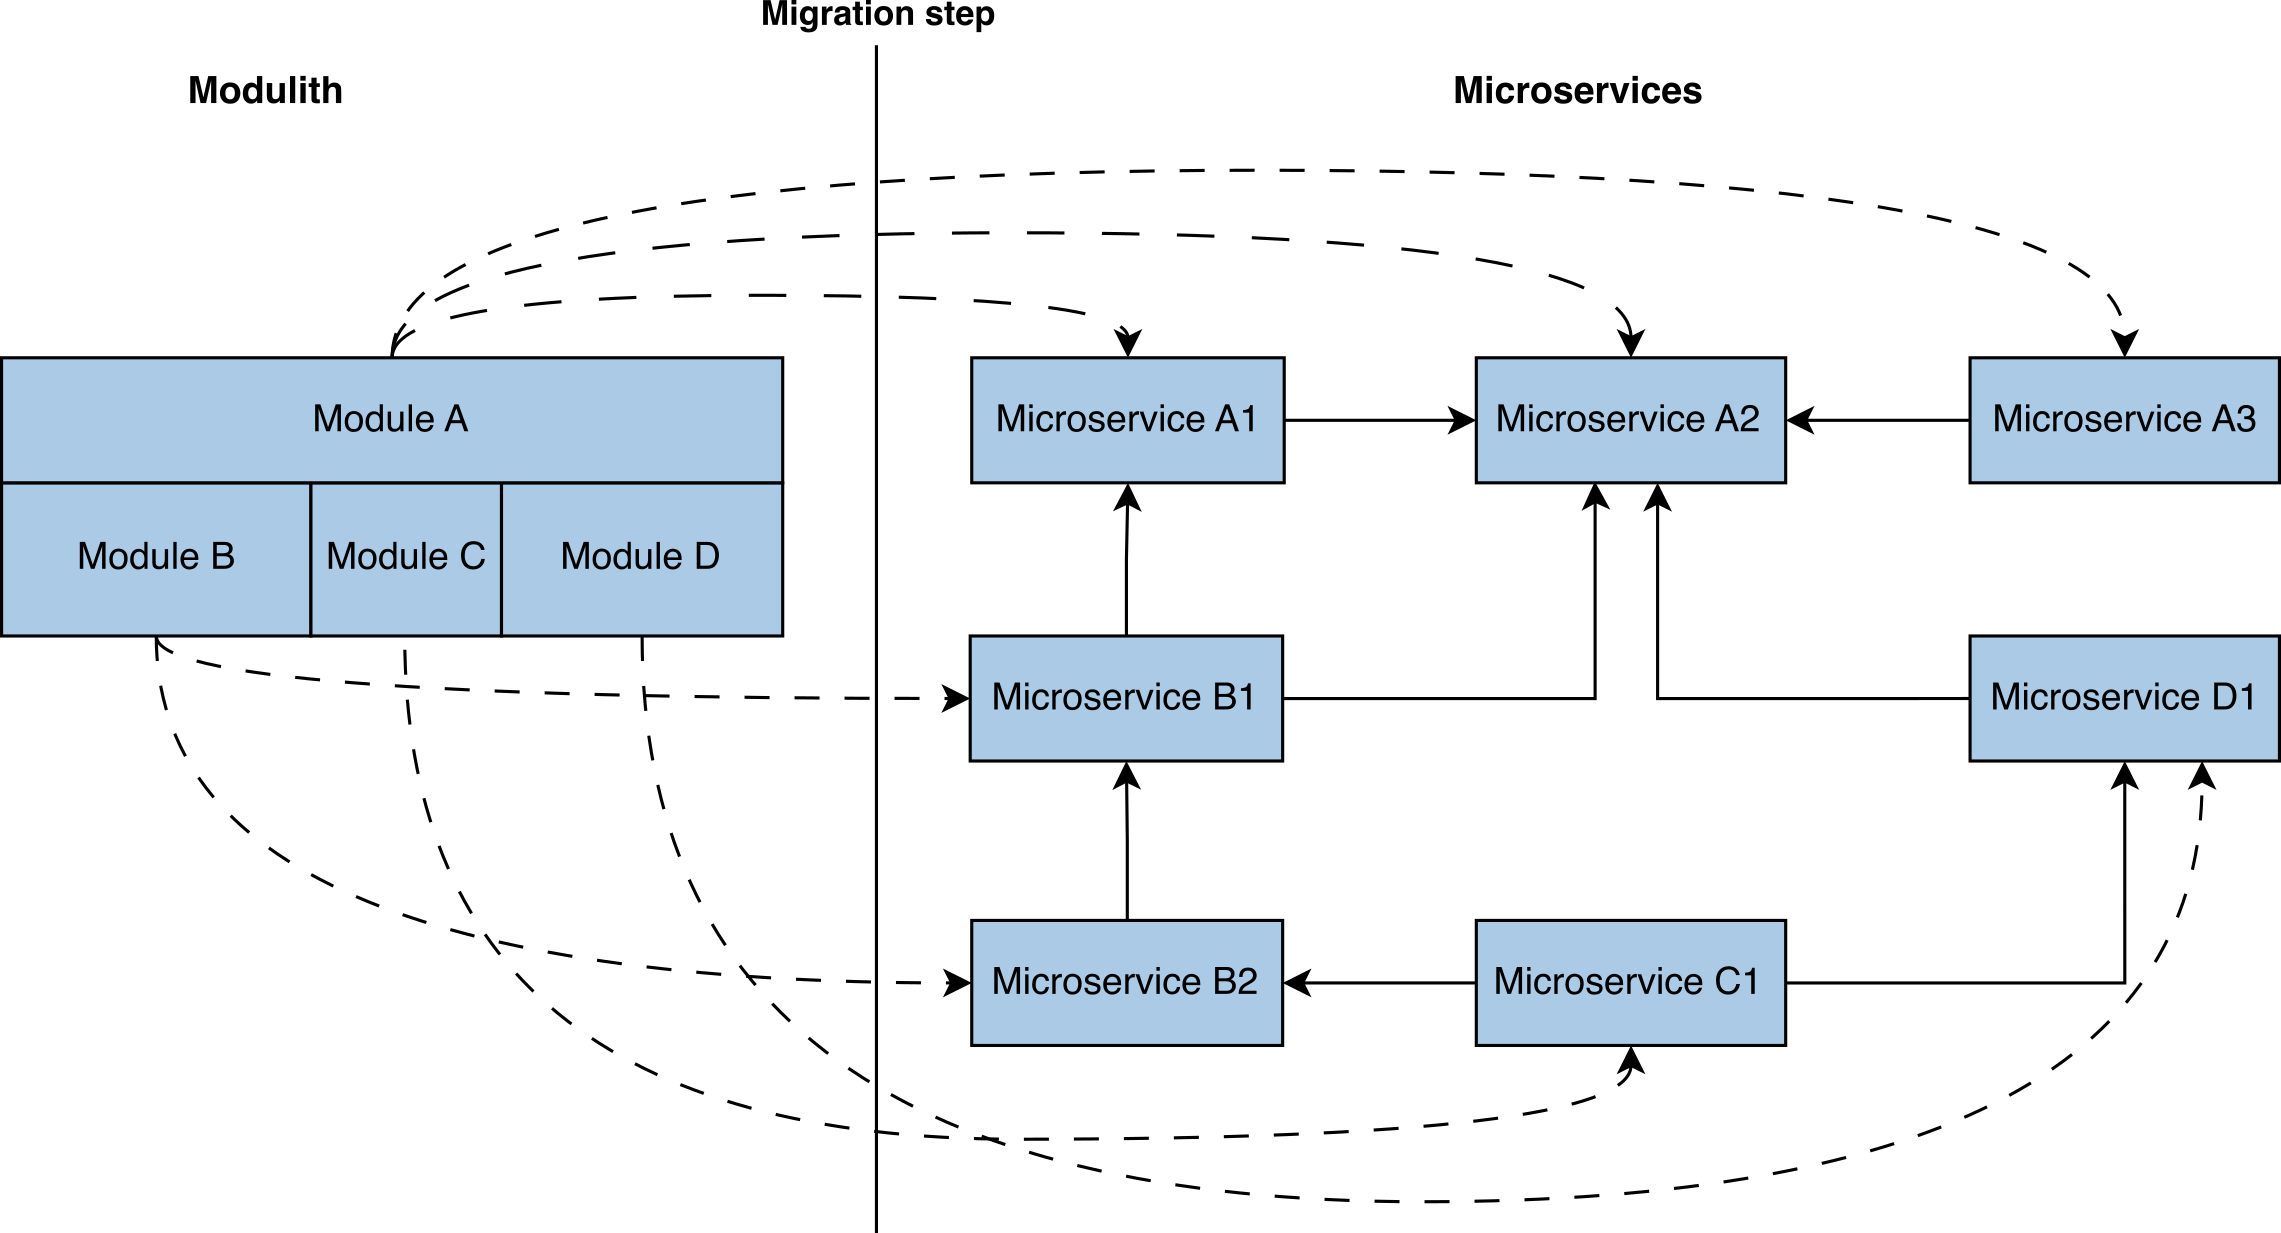
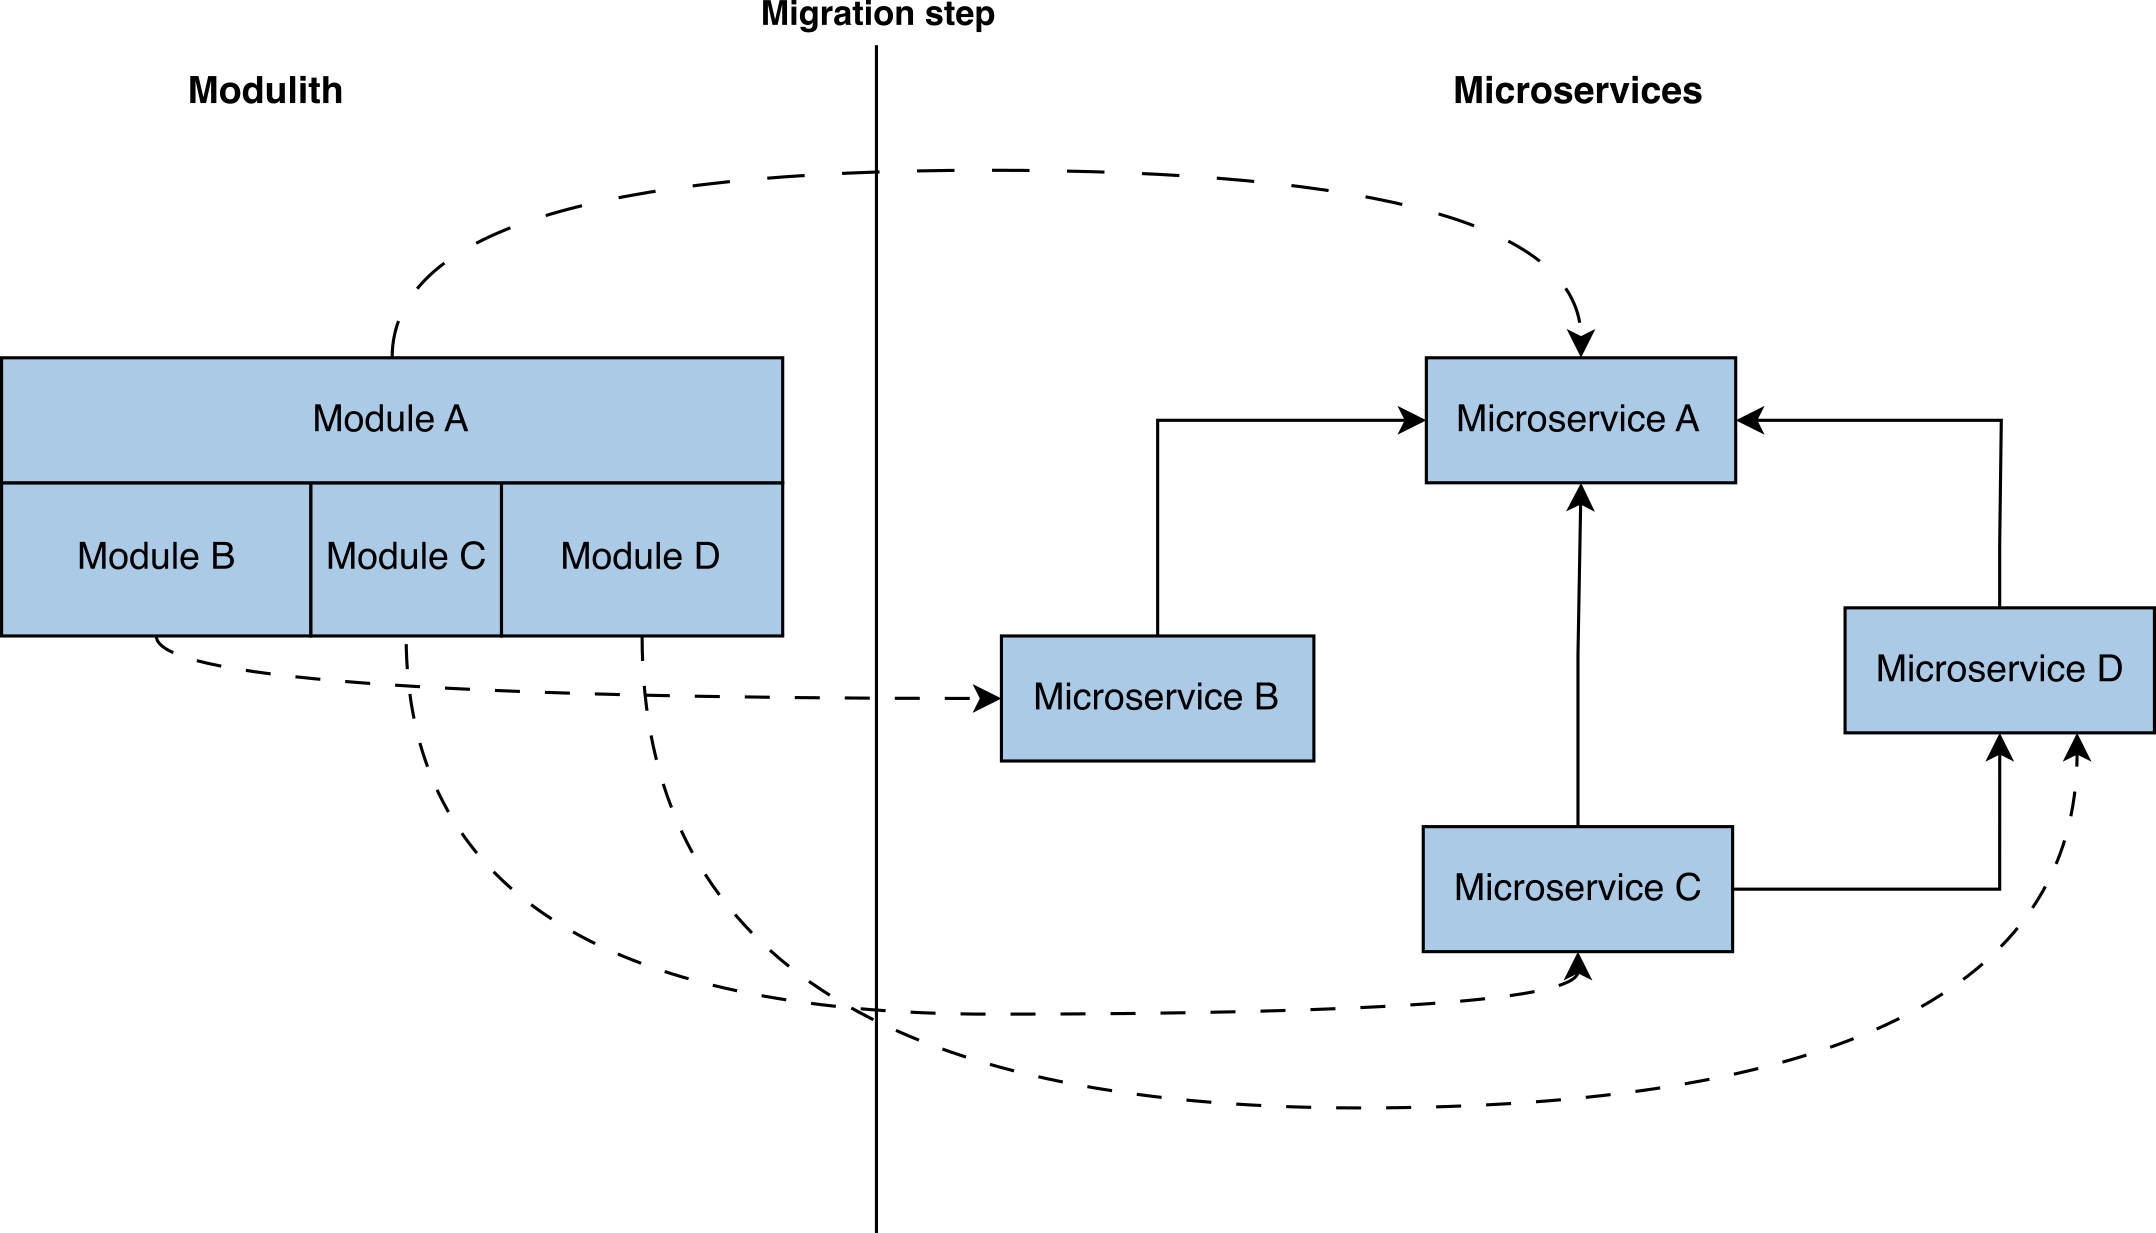
Remove module spliting from diagram

diff --git a/thesis/src/text/methodology.tex b/thesis/src/text/methodology.tex
@@ -137,7 +137,7 @@ Instead of this radical approach of rewriting the whole system, which will basic
 \label{subsection:modulith_to_microservices}
 Over time, the modular architecture may no longer meet the needs of the project. Examples of reasons: more fine-grained granularity of the application is required, teams need more independence, lack of technology agnosticism, or a more distributed solution is desired to achieve higher availability or scalability.
 
-After properly weighing all the pros and cons, a decision can be made to migrate to a microservice architecture. The transformation should ideally take place in natural steps over time as requirements and system needs change. Modulith consists of individually scalable modules with defined boundaries. Moving to a microservice architecture is about refining these modules and transforming them into microservices by defining fine-grained boundaries. In cases where modules have been defined with small scopes, the transformation can be as simple as 1 module to 1 microservice, but usually modules are split into multiple microservices because they have a larger scope compared to microservices, which are usually driven by the principle of single business responsibility. The example transformation step is shown in figure~\ref{fig:modulith_to_microservices_steps}.
+After properly weighing all the pros and cons, a decision can be made to migrate to a microservice architecture. The transformation should ideally take place in natural steps over time as requirements and system needs change. Modulith consists of individually scalable modules with defined boundaries. Moving to a microservice architecture is about refining these modules and transforming them into microservices by defining fine-grained boundaries. In cases where modules have been defined with small scopes, the transformation can be as simple as 1 module to 1 microservice, but we might have originally set bigger boundaries, which do not comply with Microservices ideology usually driven by the principle of single business responsibility. So, before doing the migration, the modules needs to be broken down into smaller modules, which than can be mapped directly to individual microservices. The transformation step from Modulith to Microservices is shown in figure~\ref{fig:modulith_to_microservices_steps}.
 
 \begin{figure}
     \centering
